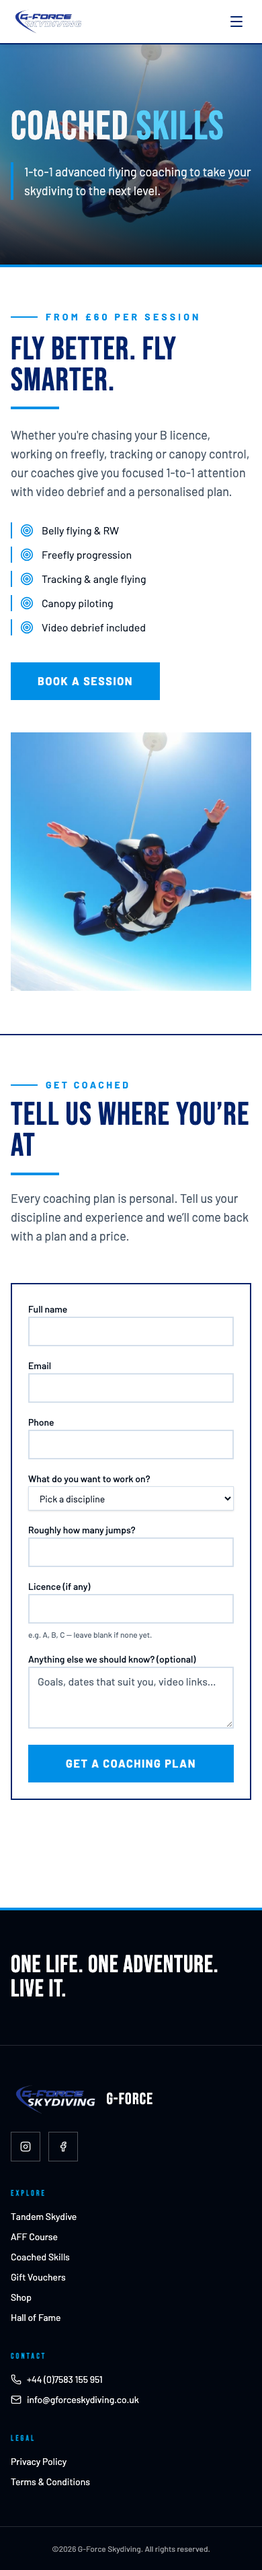
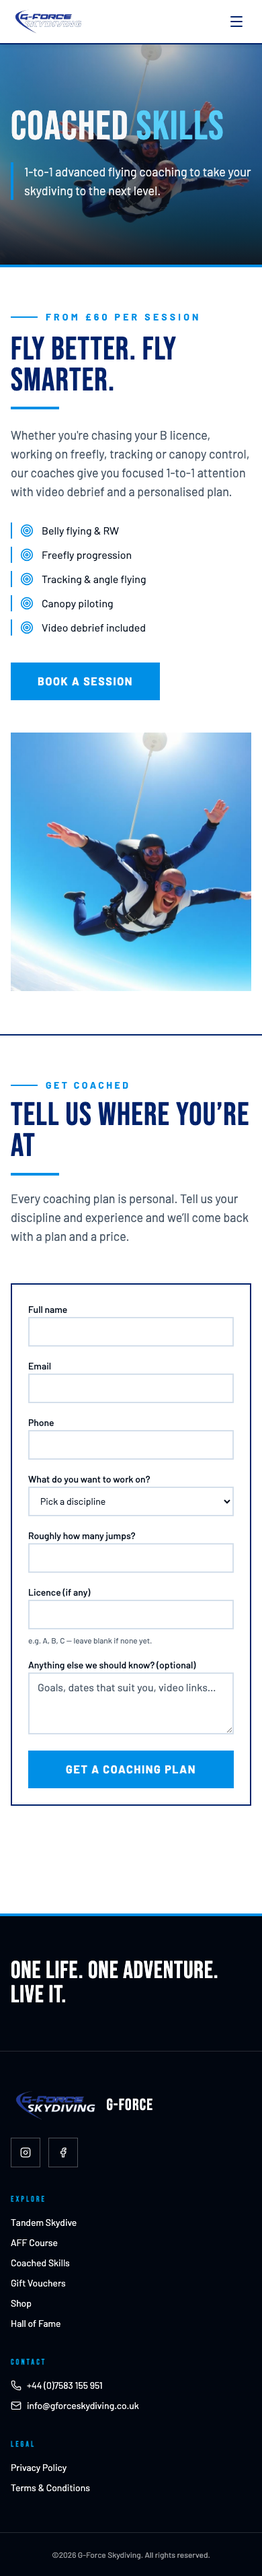
chore: round 5B wrap-up — cross-page pass, SUMMARY, decisions

diff --git a/design-review/round5/SUMMARY.md b/design-review/round5/SUMMARY.md
@@ -1,0 +1,83 @@
+# Round 5B — bold redesign (design/bold-redesign)
+
+Evidence: `round5/before/` (1440/390) vs `round5/after/` (1440/768/390) for all
+16 public routes, plus `round5/voucher-sample.pdf|png` and refreshed
+`design-review/emails/*.png`. The tandem booking flow was walked interactively
+at 390px (`walk-tandem.mjs`, no console errors). Screenshots are taken with
+`reducedMotion: 'reduce'` — which doubles as verification of the reduced-motion
+path; entrance reveals were checked by hand in a live viewport.
+
+## The language (one commit, then applied page by page)
+
+The owner's critique was the brief: the old site was one white rounded-2xl
+card floating on a glow shadow, repeated forever. The replacement:
+
+- **Radius 0 everywhere**; structure from 2px navy rules, hairline grid lines
+  (`gap-px bg-secondary`) and borders — not floating shadows. The only shadow
+  left on the public site is the functional one under the sticky header.
+- **Bebas display type pushed much harder**: stacked 10.5rem hero headline,
+  7xl section headings with a 4px accent rule, kickers with a leading rule.
+- **Navy as a surface, blue as an accent**: full-bleed `band-ink` sections
+  (trust, newsletter, gift voucher, page heroes, footer) instead of a 100%
+  white page; pale-blue glows and gradient washes deleted.
+- **Photography freed**: services are edge-to-edge photo tiles with text on a
+  bottom-weighted scrim; about/tandem/aff/coached images bleed past the grid
+  to the viewport edge; hall-of-fame is a hairline photo wall; the home page
+  closes on a full-bleed photographic CTA.
+- **Motion**: entrance reveals (IntersectionObserver, progressive enhancement,
+  `prefers-reduced-motion` short-circuits), CSS hover transforms kept.
+
+## Page by page
+
+- **home** — stacked editorial hero; photo-tile services; navy about band with
+  bleed imagery + numeral stats; dark typographic trust band (icon badges
+  gone); coach portraits (placeholder photos seeded — `public/images/
+  instructors/`, replaceable in the admin) with navy name plates and the
+  monogram block as an intentional empty state; ruled pull-quote testimonials;
+  photographic close. `before/home-1440.png` → `after/home-1440.png`.
+- **tandem** — intro copy beside an edge-bleed photo; pricing as ruled tables
+  under 4px-rule headings (card tables gone); navy pay panel; full-bleed gift
+  voucher band.
+- **aff** — intro photo bleeds left; dark trust band; pricing tiles on a
+  hairline grid; course cards with status-coloured top rules (destructive red
+  when ≤2 places); ruled info columns.
+- **coached** — same intro treatment; enquiry form on white with sharp fields.
+- **booking flows / vouchers / payment** — new language, deliberately calm:
+  flat white surfaces, 2px borders, ruled summaries, quiet type; step
+  indicator squared; trust microcopy kept. Walked at 390px.
+- **shop / testimonials / hall-of-fame / contact / legal / 404** — flattened to
+  match; testimonials are framed pull-quotes; hall-of-fame a photo wall; 404
+  gets a 10rem numeral.
+- **emails** — `gforce` markdown theme: uppercase navy headings, sharp
+  corners, brand-blue buttons and a ruled panel. All 12 previews shot.
+- **voucher PDF (deferred from Round 4 — built here)** — A5 landscape, navy
+  tagline band, code box, message, redeem footer; generated at purchase
+  (fail-soft), attached to the gift email, stored with the voucher, admin
+  re-download regenerates on demand; render-tested. dompdf over
+  spatie/laravel-pdf to avoid a headless-Chrome dependency.
+
+## Deliberately kept
+
+- Brand logo, palette (re-weighted: navy surfaces, blue accents) and the
+  Bebas/Barlow pairing — the type was the site's strongest asset.
+- All content CMS-driven — no new hardcoded copy; the only new seeded content
+  is the instructor placeholder photos (a data change, not a schema change).
+- Business logic untouched: payments, webhooks, bookings, capacity, email
+  sending. The admin panel untouched.
+- Round 5A features are first-class in the new design: locations shown on
+  slot/course pickers and summaries, course ranges with duration and
+  places-left states.
+- Toast feedback on the enquiry forms (original UX); inline errors stay where
+  money is involved.
+
+## Bugs caught by the loop
+
+1. Full-page screenshots left below-fold reveal sections at opacity 0 — the
+   shoot harness now emulates `reducedMotion`, which is also an a11y check.
+2. `routes/dev.php` course-message preview still used the dropped
+   `course_dates.location` string column (Round 5A ripple) — 500'd the email
+   preview index; fixed to the Location relation.
+3. The voucher PDF overflowed A5 onto a second page at the first type scale —
+   caught by the page-count check, tightened to one page.
+4. Mail theme button borders stayed black behind the new blue fill — caught in
+   the email screenshots.

diff --git a/DECISIONS.md b/DECISIONS.md
@@ -347,3 +347,30 @@ Running log of judgement calls made during the autonomous CMS/booking build, new
   it. Full suite re-run after removal — no behaviour change surfaced (the
   codebase's full type-hints keep coercion at the edges). The CLAUDE.md
   instruction now states the inverse rule.
+
+## Round 5B — bold redesign (design/bold-redesign)
+
+- Started from main after merging Round 5A and the consistency pass.
+- **Design direction** (no reference images existed in design-review/references):
+  the owner's written critique is the brief — sharp editorial language, radius 0,
+  rules/borders for structure, navy bands, freed photography, typographic stats,
+  Bebas pushed harder. Decorative shadows/glows/gradient washes removed from the
+  public site; the sticky header keeps a functional shadow.
+- **Coach photos**: the brief asks the section to be designed around real
+  photography with placeholders seeded. Three distinct portrait crops were derived
+  from the bundled brand photography (public/images/instructors/) and seeded as
+  bundled paths — the owner replaces them through the existing admin upload. The
+  Instructor::photo_url accessor gained the same bundled-path handling every other
+  image model already had.
+- **Voucher PDF**: dompdf (barryvdh/laravel-dompdf) over spatie/laravel-pdf — the
+  latter needs headless Chrome on the server; dompdf is pure PHP. Helvetica is the
+  closest bundled face to the display type; the brand look comes from the navy
+  band/scale/tracking. Generated at purchase fail-soft (a PDF failure logs and the
+  voucher still issues; the render test is the guard against template errors),
+  stored on the private local disk, attached to the gift email, admin re-download
+  regenerates for admin-issued vouchers.
+- **Email theme**: published only the markdown theme CSS (gforce.css) rather than
+  all vendor mail views — smallest surface that restyles every mailable.
+- **Screenshot harness** now emulates prefers-reduced-motion (entrance reveals
+  otherwise sit at opacity 0 in full-page captures); reveals verified by hand.
+- Tests pinning old markup needed no changes — none asserted card chrome.
